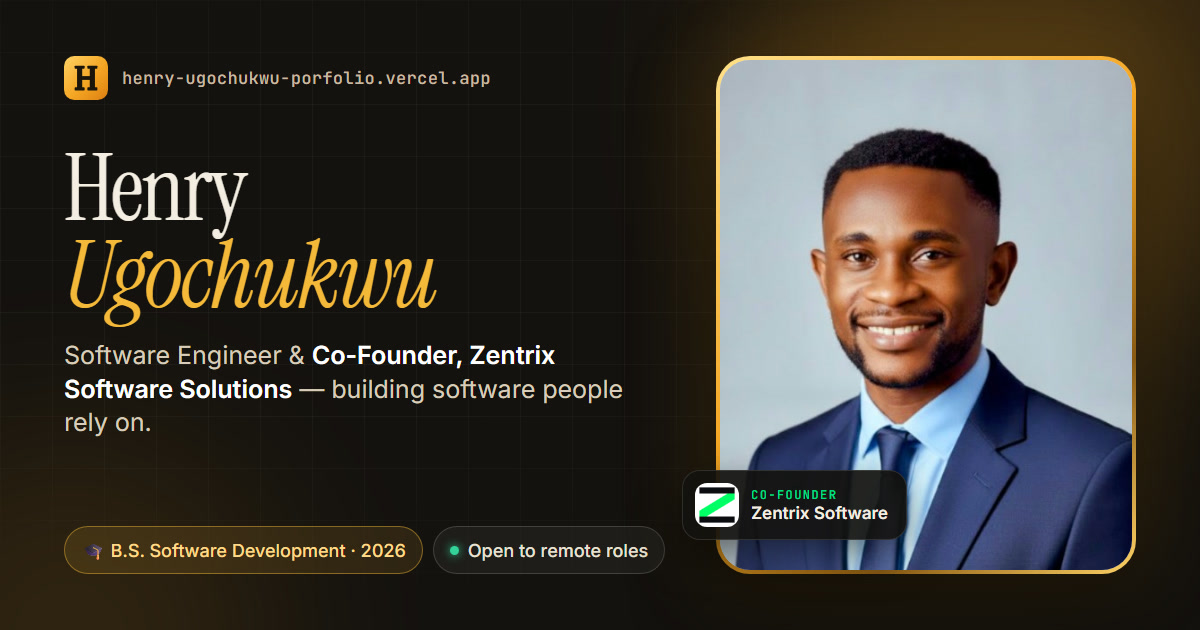
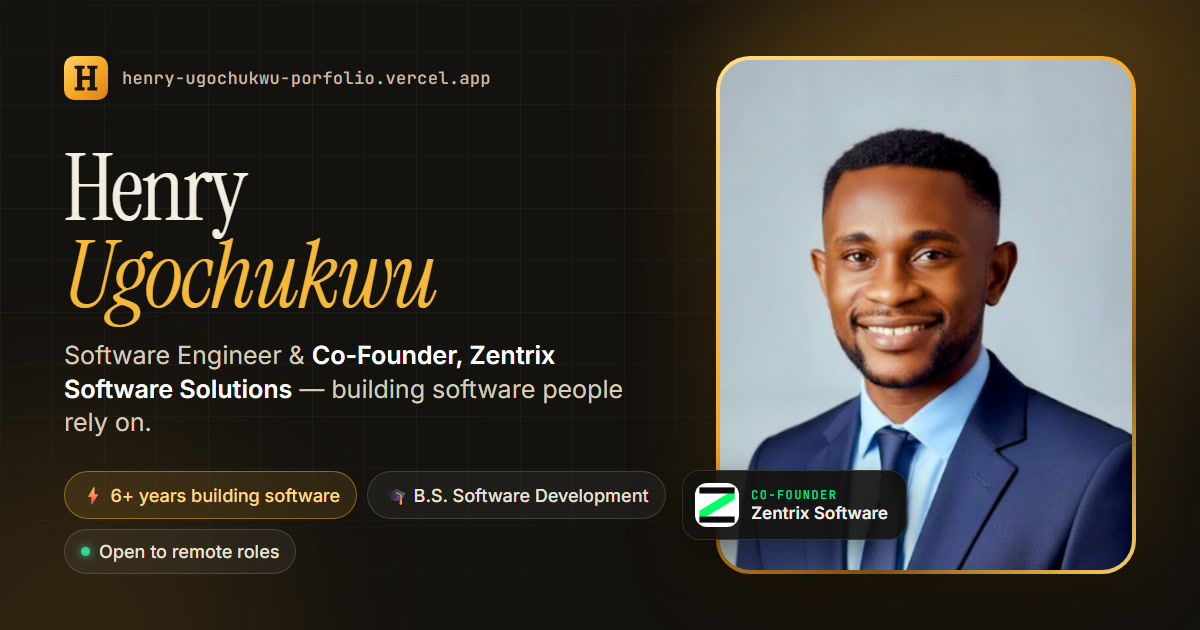
Lead with 6+ years of experience instead of new-graduate framing
Hero badge, stats, About heading and summary, credentials section and
share card now emphasise years of shipping software, with the B.S.
Software Development presented as a supporting credential.

Changed region(s): [[0.0308, 0.7238, 0.555, 0.9349]]

diff --git a/henry-s-digital-studio-main/src/routes/index.tsx b/henry-s-digital-studio-main/src/routes/index.tsx
@@ -212,10 +212,10 @@ function Nav({ profile }: { profile: Profile }) {
 function Hero({ profile, projects }: { profile: Profile; projects: Project[] }) {
   const live = projects.filter((p) => p.status === "Live").length;
   const stats = [
+    { value: "6+", label: "Years building software" },
     { value: `${projects.length}`, label: "Products built" },
     { value: `${live}`, label: "Live in production" },
     { value: "2", label: "B.S. degrees" },
-    { value: "6+", label: "Years coding" },
   ];
 
   return (
@@ -232,8 +232,8 @@ function Hero({ profile, projects }: { profile: Profile; projects: Project[] }) 
             className="flex flex-wrap items-center gap-2"
           >
             <span className="inline-flex items-center gap-2 rounded-full border border-primary/40 bg-primary/10 px-3 py-1.5 text-xs font-medium text-primary">
-              <GraduationCap className="size-3.5" />
-              Class of 2026 · B.S. Software Development
+              <Rocket className="size-3.5" />
+              6+ years shipping production software
             </span>
             <span className="inline-flex items-center gap-2 rounded-full border border-hairline px-3 py-1.5 font-mono text-[11px] uppercase tracking-widest text-muted-foreground">
               <span className="relative flex size-2">
@@ -360,7 +360,7 @@ function Hero({ profile, projects }: { profile: Profile; projects: Project[] }) 
                 <GraduationCap className="size-5" />
               </span>
               <div className="leading-tight">
-                <p className="text-sm font-medium">Graduated · Aug 2026</p>
+                <p className="text-sm font-medium">B.S. Software Development</p>
                 <p className="text-xs text-muted-foreground">BYU-Idaho</p>
               </div>
             </div>
@@ -476,8 +476,8 @@ function About({ profile, skills }: { profile: Profile; skills: Skills }) {
         kicker="01 · About"
         title={
           <>
-            Engineer, founder, and fresh graduate —{" "}
-            <span className="italic text-primary">built for real-world software.</span>
+            Six years of building, a company of my own —{" "}
+            <span className="italic text-primary">and software that ships.</span>
           </>
         }
       />
@@ -534,17 +534,19 @@ function Graduation({ certificates }: { certificates: Certificate[] }) {
       <div className="absolute inset-0 bg-glow pointer-events-none" />
       <div className="relative mx-auto max-w-7xl px-4 sm:px-6 lg:px-10 py-24 sm:py-28 grid lg:grid-cols-12 gap-12 items-center">
         <motion.div {...fadeUp} className="lg:col-span-5 space-y-6">
-          <p className="font-mono text-xs uppercase tracking-widest text-primary">02 · Milestone</p>
+          <p className="font-mono text-xs uppercase tracking-widest text-primary">
+            02 · Credentials
+          </p>
           <h2 className="font-display text-5xl sm:text-6xl leading-[0.98]">
-            Officially a <span className="italic text-gradient">Software Developer.</span>
+            Real-world experience, <span className="italic text-gradient">formally certified.</span>
           </h2>
           <p className="text-lg text-muted-foreground leading-relaxed">
-            On 15 August 2026, Brigham Young University–Idaho conferred my{" "}
+            Years of shipping production software, backed by a{" "}
             <span className="text-foreground font-medium">
               Bachelor of Science in Software Development
             </span>{" "}
-            — my second bachelor's degree. It sits on years of shipping real products, so the theory
-            comes with receipts.
+            from Brigham Young University–Idaho — one of two bachelor's degrees I hold. The products
+            came first; the degree confirms the engineering behind them.
           </p>
           <ul className="space-y-2.5 text-sm">
             {[
